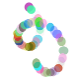
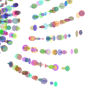
Fiksa mirroring på symShape

diff --git a/src/SymShape.java b/src/SymShape.java
@@ -43,10 +43,17 @@ public class SymShape extends Brush{
         nY = p.mouseY;
         int n = 0;
         for(int i = 0; i < 20; i++) {
-            p.line(X+n, Y+n, pX+n, pY+n);
-            p.line(Y+n, X+n, pY+n, pX+n);
+            /*p.line(X+n, Y+n, pX+n, pY+n);
+            p.line(Y+n, X+n, pY+n, pX+n);*/
+            p.line(p.mouseX + n, p.mouseY + n, p.pmouseX + n, p.pmouseY + n);
             n++;
         }
+        n = 0;
+        for(int i = 0; i < 20; i++) {
+            p.line(w - p.mouseX+n, p.mouseY+n, w - p.pmouseX+n, p.pmouseY+n);
+            n++;
+        }
+
         pX = X;
         pY = Y;
     }

diff --git a/src/Application.java b/src/Application.java
@@ -100,7 +100,7 @@ public class Application {
         // Save
         saveButton = new JButton("Lagre");
 
-        //
+        // Bakgrunnsfarge
         bgButton = new JButton("Bakgrunnsfarge");
 
         // Close program
